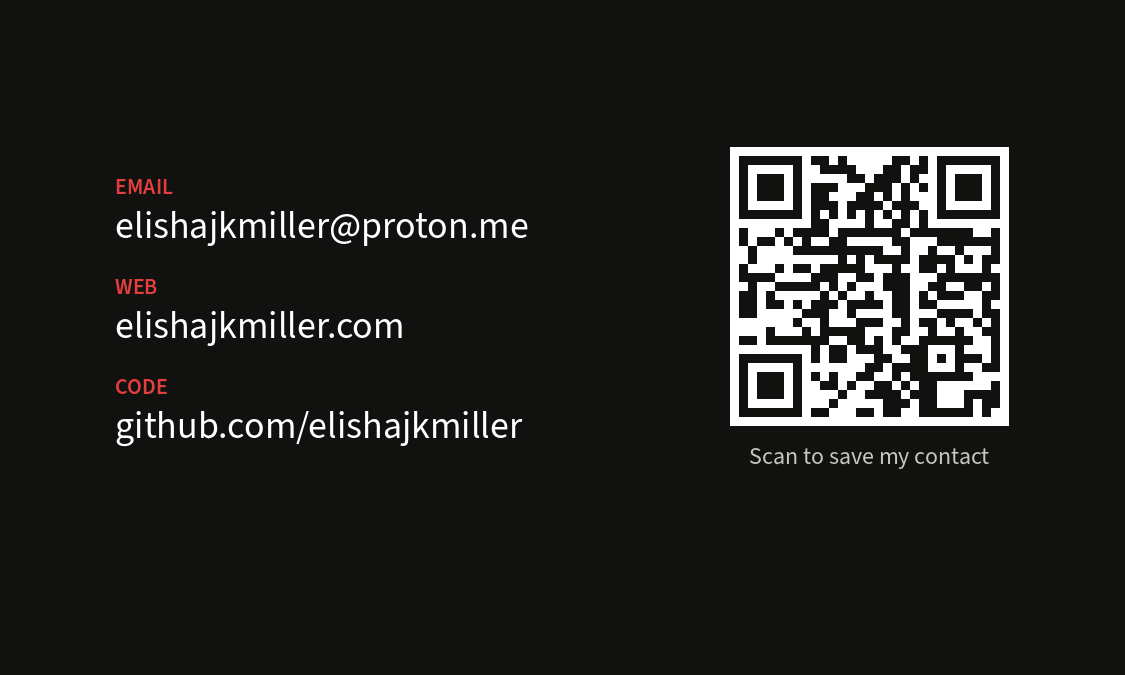
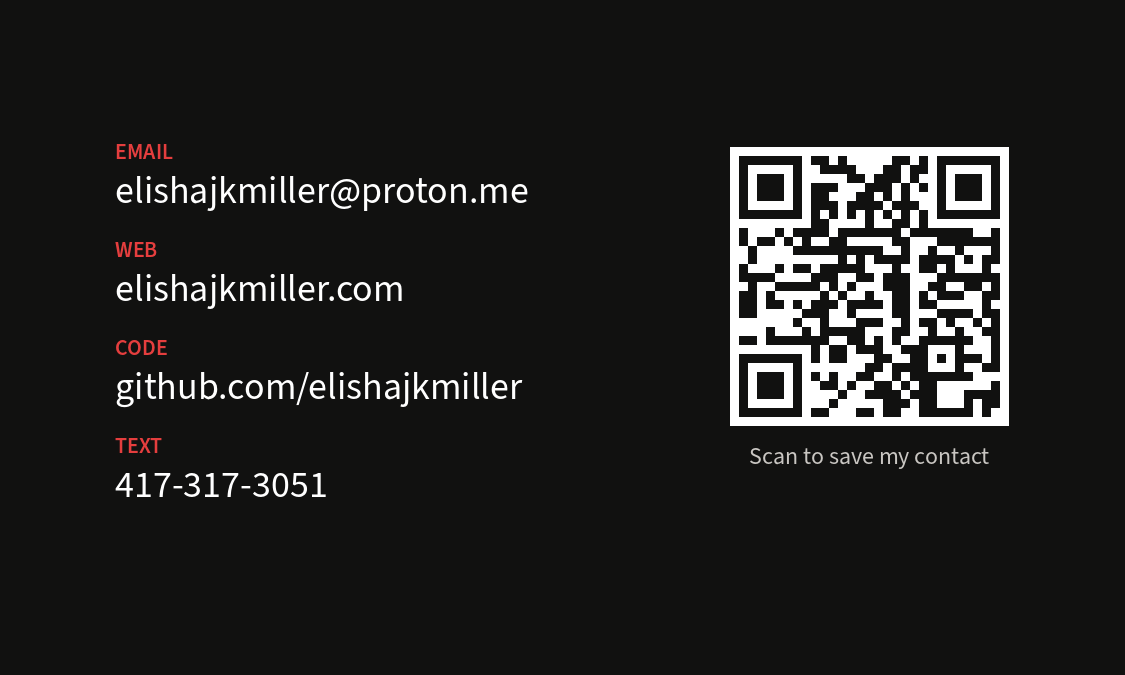
Card: phone number (text) on the back, a Message me button, and in the contact file

Changed region(s): [[0.0933, 0.2178, 0.4667, 0.5289], [0.0933, 0.56, 0.4667, 0.7467]]

diff --git a/card/index.html b/card/index.html
@@ -71,7 +71,7 @@
   <div class="float">
     <div class="card3d" id="card" tabindex="0" role="button" aria-pressed="false" aria-label="Business card. Press Enter to flip it.">
       <div class="face front"><img src="/card/card-front.png" alt="Front of the card: Elisha JK Miller, Technologist, Systems Builder, Joplin, MO"><div class="shine"></div></div>
-      <div class="face back"><img src="/card/card-back.png" alt="Back of the card: email elishajkmiller@proton.me, web elishajkmiller.com, GitHub elishajkmiller, and a QR code to this page"><div class="shine"></div></div>
+      <div class="face back"><img src="/card/card-back.png" alt="Back of the card: email elishajkmiller@proton.me, web elishajkmiller.com, GitHub elishajkmiller, text 417-317-3051, and a QR code to this page"><div class="shine"></div></div>
     </div>
   </div>
 </div>
@@ -84,6 +84,7 @@
 <div class="copyrows">
   <div class="crow"><span class="cval">elishajkmiller@proton.me</span><button class="btn alt copy" type="button" data-copy="elishajkmiller@proton.me" data-label="Copy email"><i class="ti ti-copy" aria-hidden="true"></i><span>Copy email</span></button></div>
   <div class="crow"><span class="cval">elishajkmiller.com</span><button class="btn alt copy" type="button" data-copy="https://elishajkmiller.com" data-label="Copy website"><i class="ti ti-copy" aria-hidden="true"></i><span>Copy website</span></button></div>
+  <div class="crow"><span class="cval">417-317-3051</span><a class="btn alt" href="sms:+14173173051"><i class="ti ti-message" aria-hidden="true"></i><span>Message me</span></a></div>
 </div>
 
 <div class="actions">
